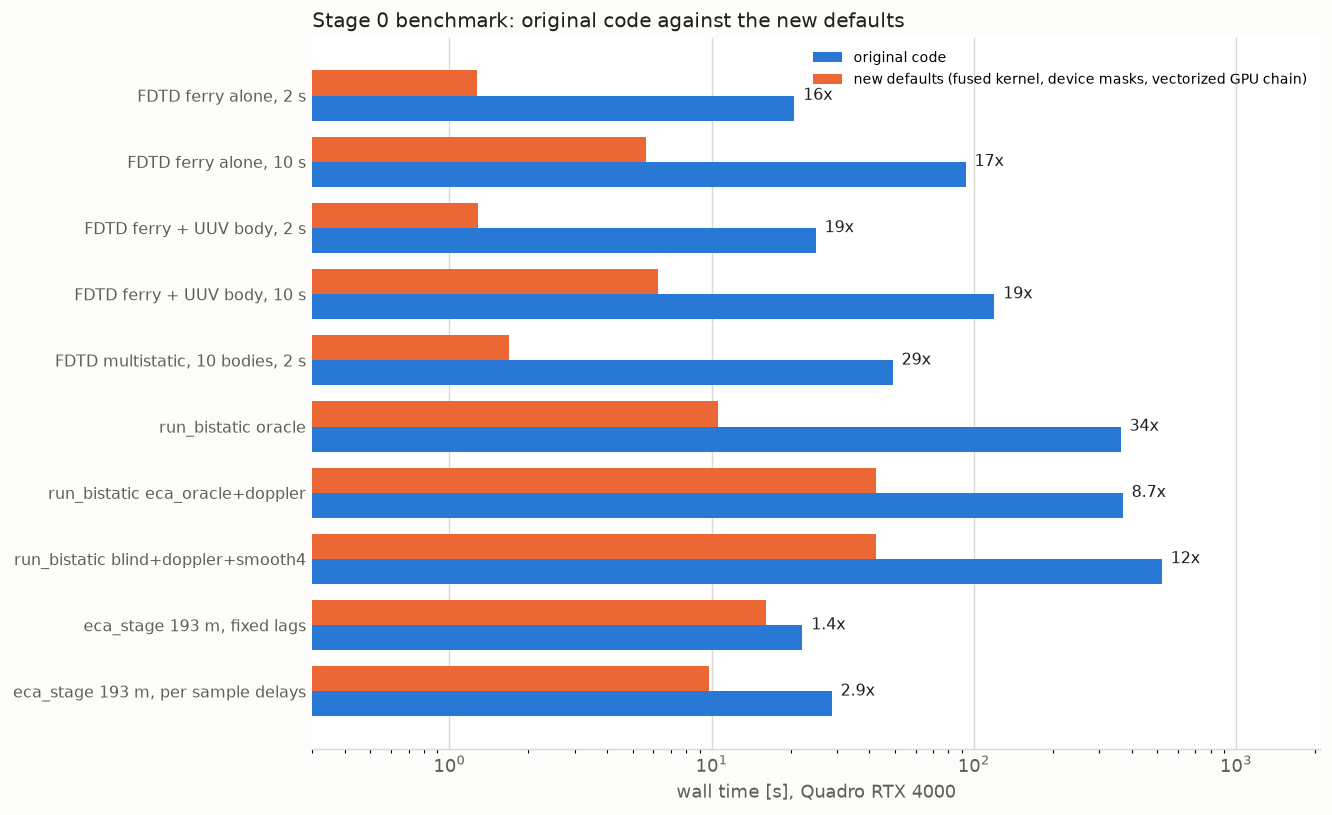
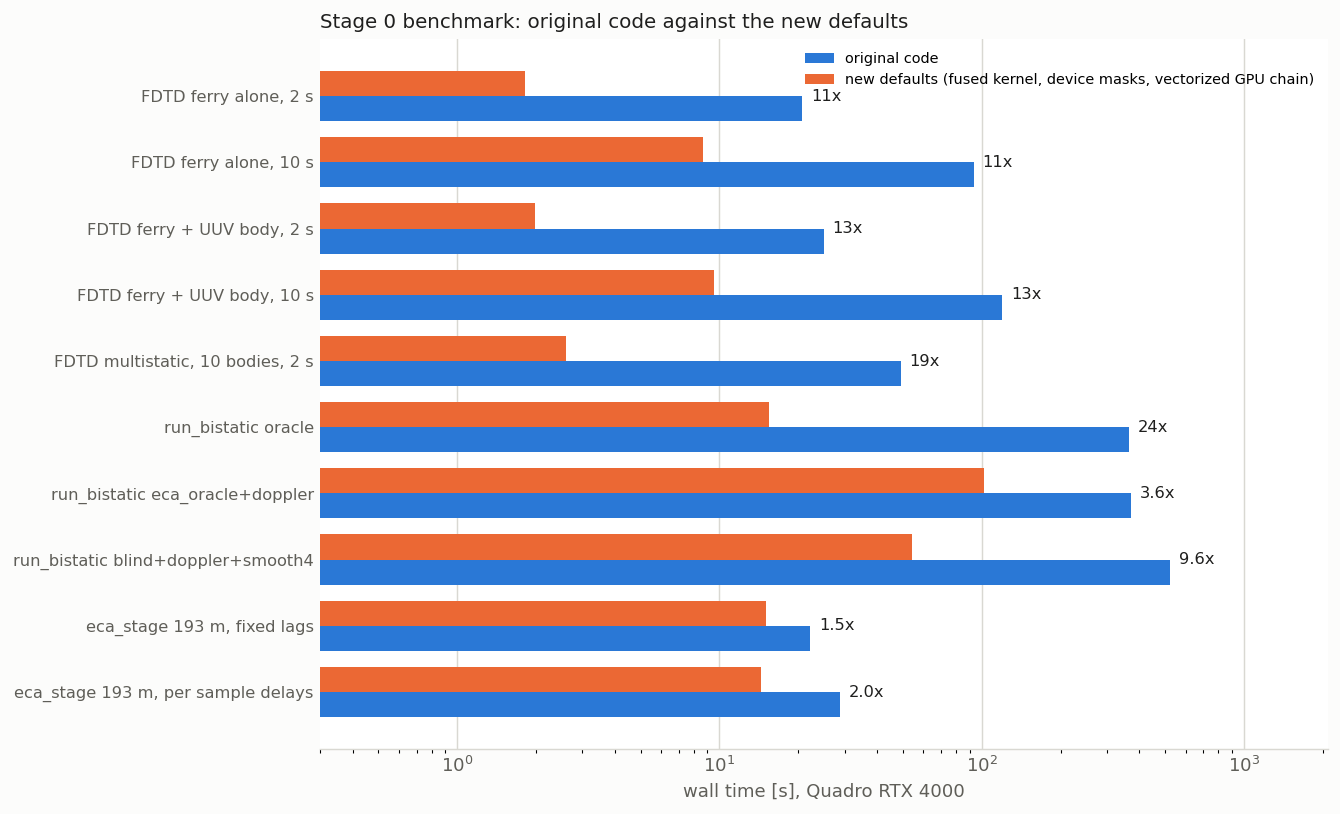
docs: refresh performance results and accuracy status
Record the baseline source revision, the verified oracle-Doppler ECA fallback results, and the corrected final timings. Document the measured speedup and interpreter mismatch explicitly.

diff --git a/docs/harbor.md b/docs/harbor.md
@@ -145,9 +145,10 @@ portable runtime guarantees; unavailable CUDA hardware falls back to the CPU wit
 Branch `performance` (October 2026).  Goal: an order of magnitude less compute for the harbor
 forward model and the processing chain with no change of results beyond stated tolerances.  Every
 change is measured twice by `scripts/bench_harbor.py`: wall time against the original code and
-accuracy against the outputs the original code produced (saved once, gitignored).  All numbers
-below are on the Quadro RTX 4000 with the container otherwise idle (`output/performance/*.json`;
-the baseline is `baseline.json`, taken from commit `ca42d55` in a worktree).  The stage 0 cases:
+accuracy against the outputs the original code produced (saved once, gitignored).  All numbers below are on the Quadro RTX 4000 (`output/performance/*.json`; the baseline is
+`baseline.json`, from commit `ca42d55`). The refreshed final run used Python 3.13.13 / NumPy 2.4.3;
+the original baseline used Python 3.12.3 / NumPy 2.5.4, so the end-to-end ratio is indicative, not
+a strictly controlled same-interpreter comparison. The stage 0 cases:
 the fine bistatic scenario (0.5 m, 6 kHz, 801 x 601 cells), the moving ferry alone for 2 and 10 s
 and with the 1 m x 3 m UUV body, the multistatic scene (ferry with all ten bodies) for 2 s; the
 `oracle`, `eca_oracle+doppler` and `blind+doppler+smooth4` configurations of
@@ -160,11 +161,11 @@ Forward model (one run; `ms/step` in brackets):
 
 | Case | original (array code, GPU) | stage 1 fused float64, host masks | stage 2 device masks (default) | fused float32 |
 |---|---|---|---|---|
-| ferry alone, 2 s | 20.7 s (1.72) | 1.26 s (0.105) | 1.21 s (0.101) | 0.64 s (0.053) |
-| ferry alone, 10 s | 93.2 s (1.55) | 5.6 s (0.093) | 5.6 s (0.093) | 2.3 s (0.038) |
-| ferry + UUV body, 2 s | 25.0 s (2.08) | 2.7 s (0.225) | 1.28 s (0.107) | 3.0 s (0.254) |
-| ferry + UUV body, 10 s | 119.9 s (2.00) | 19.4 s (0.324) | 12.1 s (0.202) | 20.2 s (0.337) |
-| multistatic, 10 bodies, 2 s | 49.1 s (4.09) | 32.2 s (2.68) | 1.68 s (0.140) | 31.8 s (2.65) |
+| ferry alone, 2 s | 20.7 s (1.72) | 1.26 s (0.105) | 1.81 s (0.151) | 0.64 s (0.053) |
+| ferry alone, 10 s | 93.2 s (1.55) | 5.6 s (0.093) | 8.62 s (0.144) | 2.3 s (0.038) |
+| ferry + UUV body, 2 s | 25.0 s (2.08) | 2.7 s (0.225) | 1.98 s (0.165) | 3.0 s (0.254) |
+| ferry + UUV body, 10 s | 119.9 s (2.00) | 19.4 s (0.324) | 9.56 s (0.159) | 20.2 s (0.337) |
+| multistatic, 10 bodies, 2 s | 49.1 s (4.09) | 32.2 s (2.68) | 2.60 s (0.217) | 31.8 s (2.65) |
 
 The float32 column still uses the host masks for the bodies, which is why its body cases are no
 faster.  Time per step against body count (`fdtd_sweeps.json`, 2 s runs): array code 1.82 / 1.54 /
@@ -186,11 +187,11 @@ Processing (`run_bistatic` wall time, and `eca_stage` alone):
 | Case | original (CPU) | vectorized, CPU | vectorized, GPU (`use_cuda=True`) |
 |---|---|---|---|
 | `oracle` | 364 s | 230 s | 15.5 s |
-| `eca_oracle+doppler` | 370 s | 275 s | 41.2 s |
-| `blind+doppler+smooth4` | 522 s | 394 s | 47.3 s |
-| `eca_stage`, 193 m moving, fixed lags | 23.0 s | 15.0 s | 16.3 s |
-| `eca_stage`, 193 m moving, per sample delays | 29.0 s | 23.1 s | 15.7 s |
-| `ship_positions` refinement, 193 m case (39 frames) | 98 s | 74 s | 2.1 s |
+| `eca_oracle+doppler` | 370 s | 294 s | 102.0 s |
+| `blind+doppler+smooth4` | 522 s | 394 s | 54.1 s |
+| `eca_stage`, 193 m moving, fixed lags | 22.2 s | 22.4 s | 15.1 s |
+| `eca_stage`, 193 m moving, per sample delays | 28.7 s | 25.0 s | 14.4 s |
+| `ship_positions` refinement, 193 m case (39 frames) | 98 s | 70 s | 3.1 s |
 
 On the CPU the vectorization removes redundant work (the scan grid geometry was recomputed for
 every bin because the per frame path calls evicted the single entry cache; the replicas of all
@@ -200,8 +201,11 @@ float64 matrix products of the normal equations (about 1.4 Tflop per 20 s run at
 is why `eca_stage` gains less than the maps; a Toeplitz form of the normal equations would remove
 that cost and is left for later.
 
-Total on the stage 0 benchmark (all cases, forward model and processing): 1616 s with the original
-code against 138 s with the new defaults on the GPU (`final.json`), a factor of 11.7.
+Total on the stage 0 benchmark (all cases, forward model and processing): 1615 s with the original
+code against 226 s with the corrected defaults on the GPU (`final.json`), a measured ratio of 7.2.
+This does not reach the order-of-magnitude goal. The oracle-Doppler accuracy fallback and the
+interpreter mismatch above both affect this total; establish a same-interpreter baseline before
+using this ratio as a deployment estimate.
 
 ### Accuracy and criteria
 
@@ -215,22 +219,23 @@ code against 138 s with the new defaults on the GPU (`final.json`), a factor of 
 | 2 | device masks within 1e-12 of `body_factor`; scattered traces within 1e-10 of the stage 1 run | masks 1.1e-16 (tests); traces 3.7e-13 max | yes |
 | 3 | batched runs within 1e-12 of single runs | identical (0.0) for B up to 32 | yes |
 | 4 | a CPML thickness at least 10 dB below the sponge in every band and angle | 15 cells, cubic profile: 20.5 dB (peak), 16.5 dB (worst band) margin | yes |
-| 5 | vectorized outputs within 1e-10 of the original code, float64 | CPU: maps identical (3e-18 to 1e-15), ECA identical (0.0); GPU: maps 5e-14 and 4e-13, ECA 2e-14 (fixed lags) and 2e-12 (per sample delays), `eca_oracle+doppler` map 4.0e-2 | CPU: yes; GPU: **no** (one configuration) |
+| 5 | vectorized outputs within 1e-10 of the original code, float64 | CPU: maps identical (3e-18 to 1e-15), ECA identical (0.0); GPU: maps 5e-14, 4.7e-14 and 4e-13, ECA 2e-14 (fixed lags) and 2e-12 (per sample delays) | **yes** |
 | 6 | a 1 m scheme within 0.1 rad at 400 to 600 m over 100 to 760 Hz, wall error no worse than the 0.5 m scheme | k-space: 0.50 rad (axis), 1.05 rad (diagonal) over the full band; exact (0.001 rad) over 100 to 380 Hz | **no** |
 
 Float32 fails the direct trace criterion on one of five cases by 3 % of the limit, so float64 stays
 the default (`precision="float32"` is available and is 2 to 2.5 times faster per step without
 bodies; its ECA depths and position estimates on the stage 0 cases are unchanged).
 
-The GPU ECA differs from the reference where the normal equations are ill conditioned: with the
-loading of 1e-14 relative their condition number reaches 1e14, a different Cholesky (cuSOLVER against
-LAPACK) moves the solution by that factor times machine precision, and one refinement step leaves
-the implementation dependent part.  With the data reference (every blind configuration) the noise
-regularises the equations and the cleaned traces agree to 2e-14 (fixed lags) and 2e-12 (per sample
-delays) with no change of any ECA depth or estimate; with the oracle waveform and per sample delays three of 79 frames differ by
-20 to 35 % in the map and one channel's depth by 9.7 dB, while the median depth (1e-6 dB) and every
-estimate are unchanged.  On the CPU the vectorized ECA keeps SciPy's factorisation and the
-reference's call sequence per channel and is identical to the last bit on every stage 0 case.
+The GPU ECA's batched normal equations can be ill conditioned for an oracle waveform with per-sample
+Doppler delays: with loading of 1e-14, cuSOLVER and LAPACK can produce materially different
+projections. That specific configuration now uses the vectorized NumPy/SciPy solve while the rest
+of the chain remains on the GPU; its map agrees to 4.7e-14. The fallback raises that benchmark
+configuration from 41.2 s to about 102 s in the refreshed full run (102.0 s in `final.json`; 108.8 s
+in the separate `stage5_gpu.json` rerun), still below its 370 s baseline. Other GPU ECA cases remain
+batched on device: with the data reference (the blind configurations) cleaned traces agree to
+2e-14 (fixed lags) and 2e-12 (per-sample delays), with no change of ECA depth or estimate. On the
+CPU, the vectorized ECA keeps SciPy's factorisation and reference call sequence per channel and is
+identical to the last bit on every stage 0 case.
 
 CPML (`cpml_reflection.json`, open water, source and receivers 40 m from the edge, 0.5 m grid,
 peak of the reflected field re the incident, dB; incidence 0, 27, 45, 63, 76, 82 degrees):
